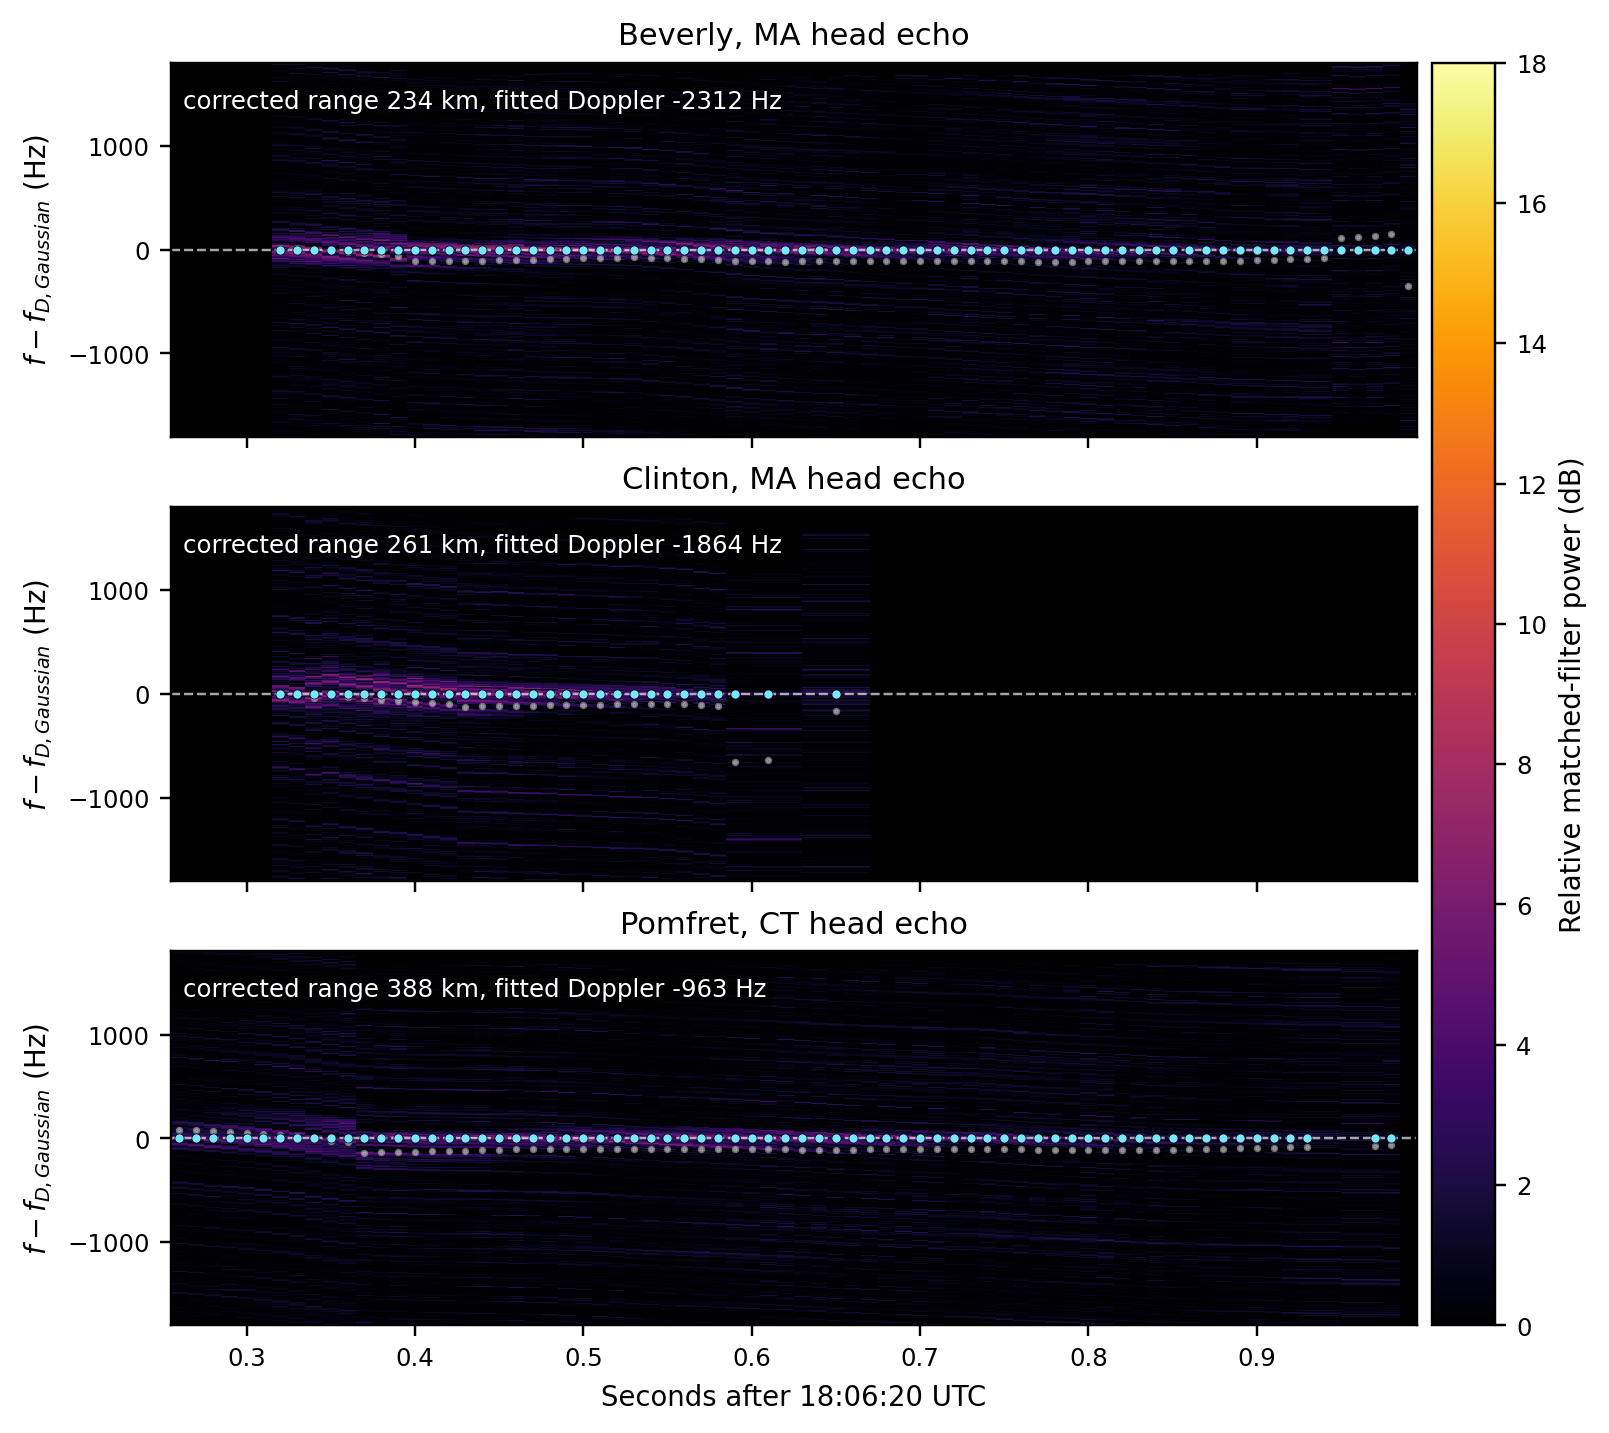
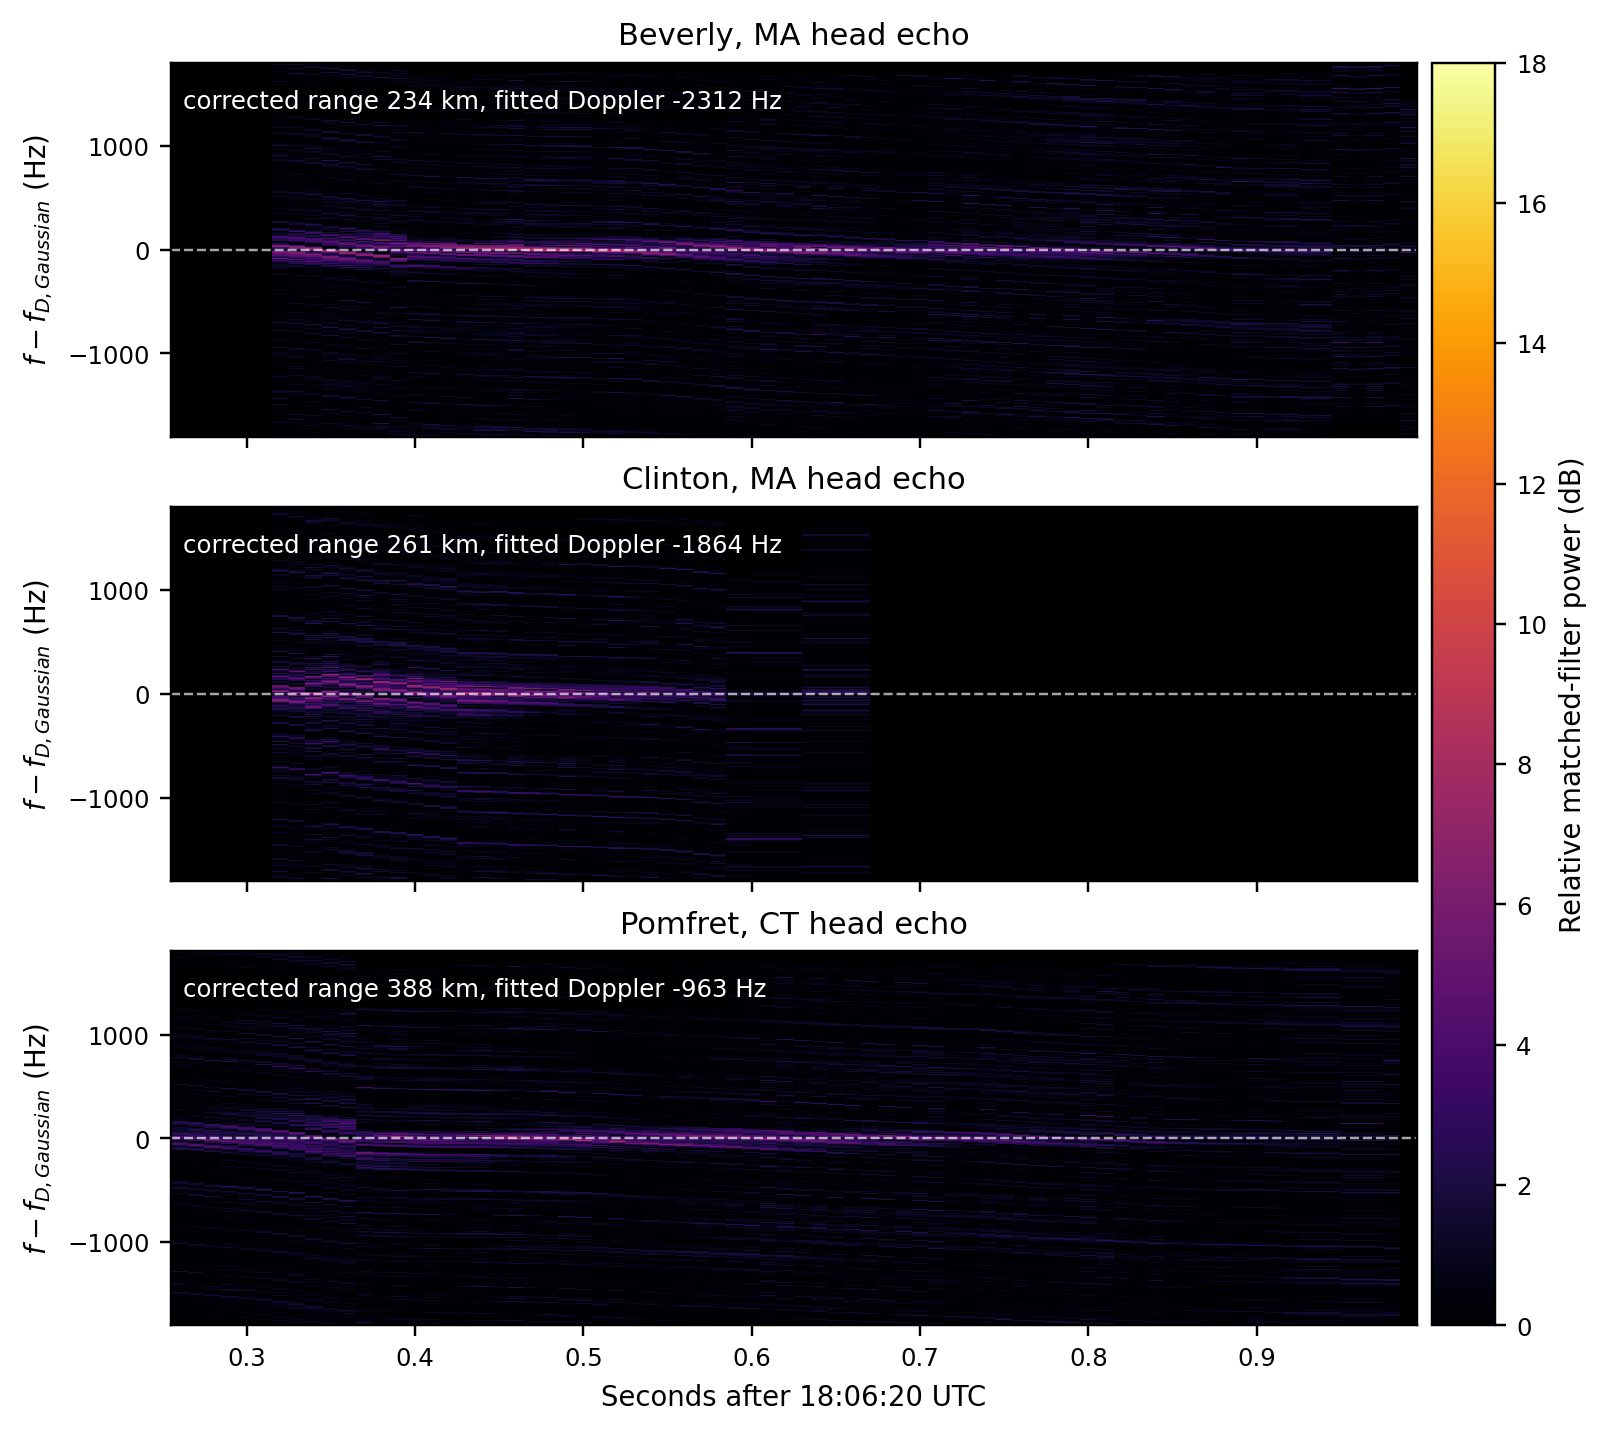
Remove markers from microdoppler plot

Changed region(s): [[0.1865, 0.1535, 0.8701, 0.1842], [0.0932, 0.7676, 0.7458, 0.7983], [0.1865, 0.4606, 0.4351, 0.4913]]

diff --git a/reports/generate_head_microdoppler_corrected.py b/reports/generate_head_microdoppler_corrected.py
@@ -211,9 +211,6 @@ def plot_corrected(results: list[dict], out_fig: Path) -> Path:
         z = res["spec_db"].T
         mappable = ax.pcolormesh(t, f, z, shading="auto", cmap="inferno", vmin=0.0, vmax=18.0)
         ax.axhline(0.0, color="white", lw=0.8, ls="--", alpha=0.65)
-        ax.scatter(t, np.zeros_like(t), s=9, marker="o", facecolor="#79e6ff", edgecolor="black", linewidth=0.25, zorder=3)
-        seed_residual = res["seed_dopplers_hz"] - res["fit_dopplers_hz"]
-        ax.scatter(t, seed_residual, s=8, marker=".", color="#c3c3c3", alpha=0.55, zorder=2)
         ax.set_ylabel("$f-f_{D,Gaussian}$ (Hz)")
         ax.set_title(f"{STATION_LABELS[res['station']]} head echo")
         ax.text(
